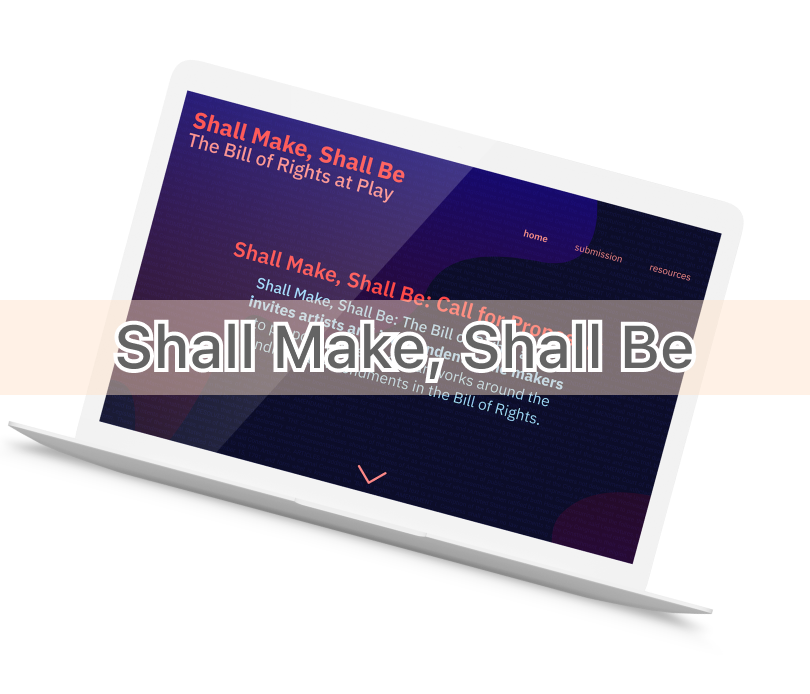
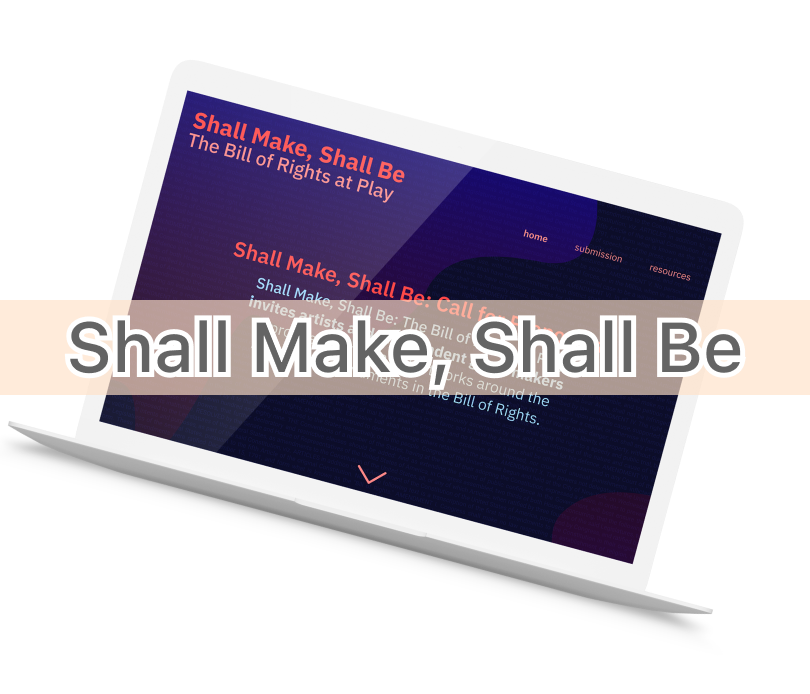
Changed link color and project page images

Changed region(s): [[0.0617, 0.4236, 0.9259, 0.5749]]

diff --git a/Assets/css/style.css b/Assets/css/style.css
@@ -82,7 +82,7 @@ footer {
 }
 
 .button {
-  color: #F27F40;
+  color: #F47563;
   background-color: rgba(255,172,99, 0.15);
   box-shadow: 0px 0px 0px 1px rgb(242,127,64) inset;
   border-radius: 5px;
@@ -262,7 +262,7 @@ footer {
 /*   styling links   */
 
 a {
-  color: #F27F40;
+  color: #F47563;
   text-decoration: none;
   transition: .2s ease;
 }
@@ -371,7 +371,7 @@ a:hover {
 
 #bunbun-view:hover { /* darken color of button upon hover */
   color: #F6F7F1;
-  background-color: #F27F40;
+  background-color: #F47563;
   box-shadow: 0px 0px 0px 0px;
   transition: .5s ease;
 }
@@ -382,7 +382,7 @@ a:hover {
 
 #junto-view:hover { /* darken color of button upon hover */
   color: #F6F7F1;
-  background-color: #F27F40;
+  background-color: #F47563;
   box-shadow: 0px 0px 0px 0px;
   transition: .5s ease;
 }
@@ -393,7 +393,7 @@ a:hover {
 
 #comyoot-view:hover { /* darken color of button upon hover */
   color: #F6F7F1;
-  background-color: #F27F40;
+  background-color: #F47563;
   box-shadow: 0px 0px 0px 0px;
   transition: .5s ease;
 }
@@ -404,7 +404,7 @@ a:hover {
 
 #creart-view:hover { /* darken color of button upon hover */
   color: #F6F7F1;
-  background-color: #F27F40;
+  background-color: #F47563;
   box-shadow: 0px 0px 0px 0px;
   transition: .5s ease;
 }
@@ -672,9 +672,9 @@ a:hover {
 }
 
 .nav-pills>li.active>a, .nav-pills>li.active>a:focus, .nav-pills>li.active>a:hover{ /*color on select or active*/
-  color: #F27F40;
+  color: #F47563;
   background-color: transparent;
-  border-left: 6px solid #F27F40;
+  border-left: 6px solid #F47563;
   font-weight: 600;
 }
 
